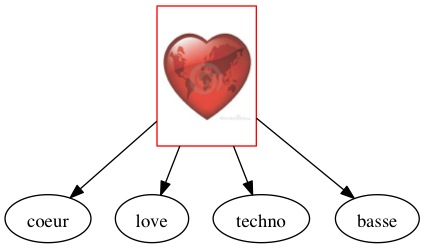
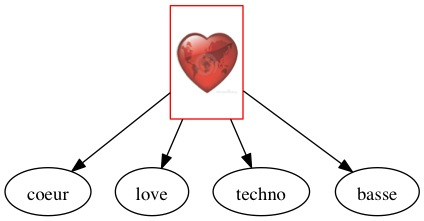
Amélioration de la présentation + code amélioré

diff --git a/app/models/graphviz/HyperGraph.java b/app/models/graphviz/HyperGraph.java
@@ -13,13 +13,11 @@ import java.util.ArrayList;
 public class HyperGraph {
 
 	private GraphViz gv;
-	private ArrayList<String> pochettes;
 	private ArrayList<String> pochettesGraph;
 	private long nbreStruct=0;
-	
+
 	public HyperGraph(){
 		gv = new GraphViz();
-		pochettes=new ArrayList<String>();
 		pochettesGraph=new ArrayList<String>();
 	}
 
@@ -32,12 +30,12 @@ public class HyperGraph {
 	public void startGraph(){
 		gv.addln(gv.start_graph());
 	}
-	
+
 	public void ajouterPochetteMotRelation(String pochette,String mot){
 		getFile(pochette);
 		gv.addln("struct"+nbreStruct+"->"+mot+";");
 	}
-	
+
 	public void endGraph(){
 		gv.addln(gv.end_graph());
 		System.out.println(gv.getDotSource());
@@ -45,27 +43,26 @@ public class HyperGraph {
 		File out = new File("public/graph/hypergraph." + type);
 		gv.writeGraphToFile( gv.getGraph( gv.getDotSource(), type ), out );
 	}
-	
+
 	private void getFile(String host)
 	{
 
 		InputStream input = null;
 		FileOutputStream writeFile = null;
+		try
+		{
+			URL url = new URL(host);
+			URLConnection connection = url.openConnection();
+			int fileLength = connection.getContentLength();
 
-		if (!pochettes.contains(host)){
-			try
-			{
-				URL url = new URL(host);
-				URLConnection connection = url.openConnection();
-				int fileLength = connection.getContentLength();
+			if (fileLength == -1){
+				System.out.println("Invalid URL or file.");
+			}
 
-				if (fileLength == -1){
-					System.out.println("Invalid URL or file.");
-				}
-
-				input = connection.getInputStream();
-				String fileName = url.getFile().substring(url.getFile().lastIndexOf('/') + 1);
-				pochettes.add(host);
+			input = connection.getInputStream();
+			String fileName = url.getFile().substring(url.getFile().lastIndexOf('/') + 1);
+			File pochette = new File("public/pochette/"+fileName);
+			if (!pochette.exists()){
 				nbreStruct++;
 				writeFile = new FileOutputStream("public/pochette/"+fileName);
 				byte[] buffer = new byte[1024];
@@ -74,17 +71,14 @@ public class HyperGraph {
 				while ((read = input.read(buffer)) > 0)
 					writeFile.write(buffer, 0, read);
 				writeFile.flush();
-				
+
 				gv.addln("struct"+nbreStruct+" [margin=0 shape=box, style=filled, fillcolor=white, color=red, label=" +
 						"<<table border=\"0\" cellborder=\"0\">"+
 						"<tr><td fixedsize=\"true\" width=\"50\" height=\"80\"><img scale=\"true\" src=\"public/pochette/"+fileName+"\"/>" +
 						"</td></tr>"+
 						"</table>>];");
-			}
-			catch (IOException e){
-				System.out.println("Error while trying to download the file.");
-			}
-			finally{
+				pochettesGraph.add(fileName);
+				
 				try{
 					writeFile.close();
 					input.close();
@@ -92,24 +86,20 @@ public class HyperGraph {
 				catch (IOException e){
 
 				}
-			}
-		}else{
-			URL url;
-			try {
-				url = new URL(host);
-				String fileName = url.getFile().substring(url.getFile().lastIndexOf('/') + 1);
+			}else{
 				if (!pochettesGraph.contains(fileName)){
+					nbreStruct++;
 					gv.addln("struct"+nbreStruct+" [margin=0 shape=box, style=filled, fillcolor=white, color=red, label=" +
 							"<<table border=\"0\" cellborder=\"0\">"+
-							"<tr><td fixedsize=\"true\" width=\"70\" height=\"100\"><img scale=\"true\" src=\"public/pochette/"+fileName+"\"/>" +
+							"<tr><td fixedsize=\"true\" width=\"50\" height=\"80\"><img scale=\"true\" src=\"public/pochette/"+fileName+"\"/>" +
 							"</td></tr>"+
 							"</table>>];");
 					pochettesGraph.add(fileName);
 				}
-			} catch (MalformedURLException e) {
-				// TODO Auto-generated catch block
-				e.printStackTrace();
 			}
+		}
+		catch (IOException e){
+			System.out.println("Error while trying to download the file.");
 		}
 	}
 }
